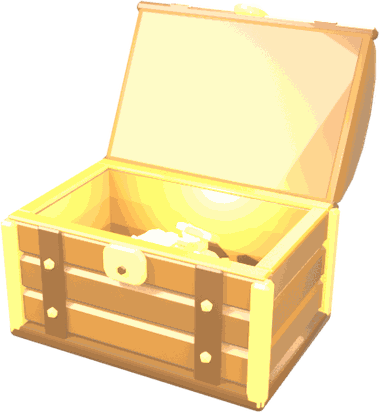
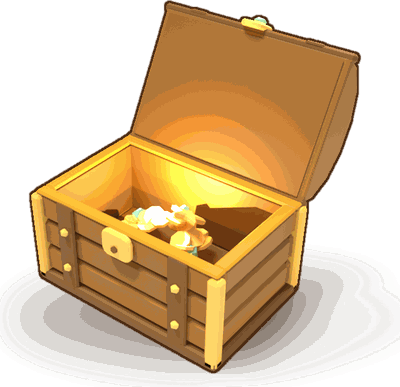
Result screen SPEC v2.2: solid 3/4 chest, text cut to 过关啦 / score / 下一关 / 回小岛
Chest (ResultChest3D):
- Camera 3/4 top-down: pitch 36°, from the front-right (azimuth 38°), fov 36, distance 5.6. Look-at y 0.68 for both
  states instead of the SPEC's 0.42 / 0.55: at 0.55 the lid's bounding box leaves the frame mid-sweep (−93°).
- Per-chest material: albedoScale (1.10, 1.06, 1.00), roughness 0.6, specularIntensity 0.35.
- Lights: key near-overhead top-left #FFEDCC ×4 (a far sphere light, so the island's directional light is untouched),
  fill low front-right #CCE0FF ×0.4, new rim behind/above #FFD18C ×1.1, InnerGlow #FFCC6B ×1.4 r2.2 once open.
- Outline ≈ 1.5 pt #4A2810 by silhouette expansion: 8 offset, tinted copies of the render behind it (no inverted hull).
- 2D contact shadow under the 3D chest: #3C2614 α45% day / 30% night, offset right/back, feathered.
- 2D fallback = chest/chest_v3_0 / chest_v3_12, scaled to 400 wide, 256-colour PNG (outline + shadow baked in).
- Chest shown 8 right of centre (SPEC); frame calibration CHEST_FRAME 0.60 / 0.028, LID_REACH 0.47.
Text (SPEC v2.2 list): no step line, no 点宝箱领取, no reward names, no unlock hint (成绩已保存 was already gone;
a failed save still shows 重试保存). Rewards are icons only; CountBadge (Ø24 #E88034, 14pt white) for count > 1
(ResultReward.count; the hosts don't pass counts yet).
Tests: style/safe_area expect only the four texts; CountBadge check; chest_3d checks camera, framing over the whole
lid sweep, lights, material and outline.

diff --git a/creator-build-project/assets/scripts/ui/BoardPanels.ts b/creator-build-project/assets/scripts/ui/BoardPanels.ts
@@ -44,7 +44,7 @@ export function openRestartConfirm(stack: PopupStack, restart: () => void): Popu
   return p;
 }
 export type ResultKind = 'win' | 'lose' | 'unsaved' | 'readonly';
-export interface ResultReward { id: string; label: string; icon: string; iconKind?: 'chest' | 'seal' | 'tool'; tool?: string; state: 'ready' | 'claimed' | 'locked'; claim?: () => void }
+export interface ResultReward { id: string; label: string; icon: string; iconKind?: 'chest' | 'seal' | 'tool'; tool?: string; state: 'ready' | 'claimed' | 'locked'; claim?: () => void; count?: number }
 export interface ResultModel {
   kind: ResultKind; score: number; stars: number | null; movesUsed: number | null; movesLeft: number | null;
   goalsLeft: Array<{ art: string; count: number }>; chestHint: boolean; rewards: ResultReward[];
@@ -81,9 +81,7 @@ export function openResult(stack: PopupStack, m: ResultModel, legacy: ToolArtSou
     ? p.text('步数用完了，换个顺序试试？', 0, 336, 28, 'brown', { bold: false, name: 'ResultMessage' })
     : p.text(m.score + ' 分', 0, 336, 64, 'brown', { name: 'Score' }));
   if (m.kind === 'win') {
-    section('ResultDetails', 0, 416, () => {
-      p.text(resultSummary(m), 0, 416, 14, 'brown2', { bold: false, width: 560, name: 'ResultSummary' });
-    });
+    // SPEC v2.2 text list: a win page keeps only 过关啦 / the score / 下一关 / 回小岛 (no step line, hint, names or unlock line).
     let y = 600;
     if (m.rewards.length) {
       const n = m.rewards.length, step = n === 1 ? 0 : n === 2 ? (wideReward ? 280 : 220) : 200;
@@ -298,13 +296,16 @@ function configureResultLayout(p: PopupPanel, _originalHeight: number, m: Result
   const isChest = (r: ResultReward) => r.iconKind === 'chest' || r.id === 'chest';
   // Chest hero: 240 × 216 when the page has room, never under 96 × 86 (the 3D render keeps its aspect).
   // Spec v2: chest 168 × 130 (compact 120 × 93), halo / hit area 220 (compact 160), rays 280 only once open.
-  const CHEST_FRAME = { width: 0.6, offsetY: 0.155 }, LID_REACH = 0.53;
+  // ResultChest3D v2.2 camera (36° pitch, 38° azimuth, fov 36, look-at y 0.68): the closed chest spans 60% of the square frame,
+  // its centre 2.8% of the frame below the frame centre; the open lid (−118°) reaches 47% of the frame above the chest centre.
+  const CHEST_FRAME = { width: 0.60, offsetY: 0.028 }, LID_REACH = 0.47;
   // SPEC v2.1: chest shown 180 wide closed / 176 open (compact 120), hit area 220 (compact 160), glow r120 closed / r150 open
   // (compact r80), rays 300 centred 48 above the chest, only once open. 2D fallback art aspect: closed 380×329, open 380×412.
-  const CHEST_W = 180, CHEST_H = 156, CHEST_W_C = 120, CHEST_H_C = 104, HALO = 220, HALO_C = 160, RAY = 300, CHEST_MIN_H = 72;
-  const CHEST_OPEN_W = 176 / 180, FLAT_OPEN_ASPECT = 412 / 380, GLOW_R = 74, GLOW_R_OPEN = 78, GLOW_R_C = 50, RAY_LIFT = 48;
+  const CHEST_W = 180, CHEST_H = 147, CHEST_W_C = 120, CHEST_H_C = 98, HALO = 220, HALO_C = 160, RAY = 300, CHEST_MIN_H = 72;
+  const CHEST_OPEN_W = 176 / 180, FLAT_OPEN_ASPECT = 387 / 400, /* chest_v3 fallback art (400 × 327 closed / 400 × 387 open, outline + contact shadow baked in) */ GLOW_R = 74, GLOW_R_OPEN = 78, GLOW_R_C = 50, RAY_LIFT = 48;
   // Glow hugs the chest (radius ≤ 0.45 × chest width): closed centre 4 below the chest centre, open 26 above; peak α 47% (night 59%) / open 59%.
-  const GLOW_DY = -4, GLOW_DY_OPEN = 26, GLOW_A = 0.47, GLOW_A_NIGHT = 0.59, GLOW_A_OPEN = 0.59, BADGE_GLOW_R = 40, BADGE_GLOW_A = 0.43;
+  // SPEC v2.2: the chest sits 8 right of centre so the shadow to its right/back doesn't pull it off-centre visually.
+  const CHEST_DX = 8, GLOW_DY = -4, GLOW_DY_OPEN = 26, GLOW_A = 0.47, GLOW_A_NIGHT = 0.59, GLOW_A_OPEN = 0.59, BADGE_GLOW_R = 40, BADGE_GLOW_A = 0.43;
   // Bottom actions match the home-screen wooden buttons: 56 high, plate art 0.6, a 5-unit drop shadow, equal widths.
   const ACTION_H = 56, ACTION_ART = 0.6, ACTION_SHADOW = 6, GUIDE_PERIOD = 1.6;
   // Rewards float above the open chest: icon + name, a gentle rise then bob. No card module under the chest.
@@ -338,13 +339,12 @@ function configureResultLayout(p: PopupPanel, _originalHeight: number, m: Result
     const lines = (text: string, size: number, line?: number) => { const lh = line || Math.ceil(size * 1.35); for (const _ of wrap(text, inner - 4, size)) heights.push(lh); };
     heights.push(shortPhone ? 44 : 88);
     if (m.kind === 'lose') lines(scoreText, 16); else lines(scoreText, 34, 46);
-    if (m.kind === 'win') { const summary = resultSummary(m); if (summary) lines(summary, 16); }
+    if (m.kind === 'win') { /* SPEC v2.2: no step line */ }
     else if (m.kind === 'lose') { for (const _ of goalIcons) heights.push(40); }
     else lines(m.kind === 'unsaved' ? '成绩还没存进旅程册' : '记录暂时不能写入，这局只看不存', 16);
     if (m.chestHint && m.kind !== 'win') lines(m.kind === 'lose' ? '过关后可以打开宝箱' : '存好后就能打开宝箱', 16);
     const side = sideRewards();
-    for (let i = 0; i < m.rewards.length; i++) { const r = m.rewards[i]; if (isChest(r)) { if (r.state === 'locked') lines(r.label, 16); heights.push(heroHeightFor(inner, r)); if (r.state === 'ready' && r.claim) heights.push(20); } }
-    if (m.kind === 'win' && m.unlockHint && !anyReady()) lines(m.unlockHint, 16);
+    for (let i = 0; i < m.rewards.length; i++) { const r = m.rewards[i]; if (isChest(r)) { heights.push(heroHeightFor(inner, r)); } }
     if (side.length && !hasChest()) heights.push(floatBand(shortPhone) + 24);
     return contentTop + reserve + heights.reduce((sum, h) => sum + h, 0) + Math.max(0, heights.length - 1) * rowGap;
   };
@@ -450,7 +450,7 @@ function configureResultLayout(p: PopupPanel, _originalHeight: number, m: Result
         }
       }
     }
-    if (m.kind === 'win') { const summary = resultSummary(m); if (summary) labelRows('ResultSummary', summary, 16, 'brown2'); }
+    if (m.kind === 'win') { /* SPEC v2.2: no step line */ }
     else if (m.kind === 'lose') {
       const goals = groups.ResultGoals;
       if (goals) {
@@ -520,11 +520,18 @@ function configureResultLayout(p: PopupPanel, _originalHeight: number, m: Result
         }
         let l = holder.getChildByName('ResultRewardState-' + i)?.getComponent(Label);
         if (!l) l = p.text('', 0, 0, 16, r.state === 'locked' ? 'grey' : 'brown', { name: 'ResultRewardState-' + i, parent: holder });
-        const fits = textWidth(r.label, 16) <= colW - 4;
-        l.string = fits ? r.label : (r.state === 'locked' ? '未解锁' : '道具'); l.fontSize = 16; l.lineHeight = FLOAT_NAME;
+        l.string = ''; l.node.active = false; l.fontSize = 16; l.lineHeight = FLOAT_NAME; // SPEC v2.2: icons only, no names
         l.enableWrapText = false; l.overflow = Label.Overflow.CLAMP;
         l.node.getComponent(UITransform)!.setContentSize(colW - 4, FLOAT_NAME); l.node.setPosition(0, -hh / 2 + FLOAT_NAME / 2, 0);
-        if (!fits) labelRows('ResultRewardLabel-' + i, r.label, 16, 'brown2');
+        // CountBadge (count > 1 only): Ø24 at the badge centre +(24, 26 up); #E88034 face, 2pt #B05C1E base, 2pt #FFF8E4 ring, 14pt bold white.
+        let cb = holder.getChildByName('ResultCountBadge-' + i);
+        if ((r.count || 0) > 1) {
+          const k3 = icon / 68;
+          if (!cb) { cb = uiNode('ResultCountBadge-' + i, holder, 24, 24); const g = cb.addComponent(Graphics);
+            g.fillColor = new Color(0xFF, 0xF8, 0xE4, 255); g.circle(0, -1, 13); g.fill(); g.fillColor = new Color(0xB0, 0x5C, 0x1E, 255); g.circle(0, -2, 10); g.fill(); g.fillColor = new Color(0xE8, 0x80, 0x34, 255); g.circle(0, 0, 10); g.fill();
+            const t = p.text(String(r.count), 0, 0, 14, 'white', { name: 'ResultCount', width: 24, parent: cb }); t.lineHeight = 16; t.node.setPosition(0, 0, 0); }
+          delete (cb as any).__floatBase; cb.setScale(k3, k3, 1); cb.setPosition(24 * k3, iconY + 26 * k3, 0); cb.active = true; cb.setSiblingIndex(holder.children.length - 1);
+        } else if (cb) cb.active = false;
         holder.setSiblingIndex(row.node.children.length - 1); floatNodes.push({ node: holder, x, y: baseY, phase: k * 0.09, fromY: mouthY }); floatDiag.push({ name: r.label, x, y: baseY, icon });
       });
     };
@@ -534,12 +541,12 @@ function configureResultLayout(p: PopupPanel, _originalHeight: number, m: Result
       if (!isChest(r)) continue;
       let band = floatBand(dense || specCompact), split = false;
       const usedAbove = rows.reduce((sum, row) => sum + row.height + rowGap, 0);
-      const labelled = r.state === 'locked';
+      const labelled = false; // SPEC v2.2: no reward names
       const cwS = specCompact ? CHEST_W_C : CHEST_W, haloS = specCompact ? HALO_C : HALO;
       // Closed: rewards would hover over the halo's top edge. Open: they must clear the raised lid, which reaches 53% of the
       // square chest frame above the chest centre (result_chest.glb at −118°), so the band starts above it.
       let lap = !band ? 0 : r.state === 'claimed' && !specCompact ? -Math.max(0, Math.round(LID_REACH * cwS / CHEST_FRAME.width - haloS / 2)) : Math.round(band * 0.4);
-      const after = (r.state === 'ready' && anyReady() ? 20 + rowGap : 0) + (m.unlockHint && !anyReady() ? Math.ceil(16 * 1.35) + rowGap : 0);
+      const after = 0;
       const room = available - usedAbove - (labelled ? 22 + rowGap : 0) - (band - lap) - after;
       const cw0 = specCompact ? CHEST_W_C : CHEST_W, ch0 = specCompact ? CHEST_H_C : CHEST_H, halo = specCompact ? HALO_C : HALO;
       let chestH = Math.max(Math.min(CHEST_MIN_H, ch0), Math.min(ch0, room * ch0 / halo, inner * ch0 / cw0)), chestW = chestH * cw0 / ch0;
@@ -564,10 +571,13 @@ function configureResultLayout(p: PopupPanel, _originalHeight: number, m: Result
       }
       const sk = chestW / (specCompact ? CHEST_W_C : CHEST_W), glowD = 2 * Math.min(0.45 * chestW, (specCompact ? GLOW_R_C : opened ? GLOW_R_OPEN : GLOW_R) * sk);
       haloNode.getComponent(UITransform)!.setContentSize(glowD, glowD); add(row, haloNode, 0, chestY + (opened ? GLOW_DY_OPEN : GLOW_DY) * sk); (haloNode as any).__draw(opened, isNight());
-      // FloorShadow 140 × 20 #5A3A1E α25% under the chest.
+      // Contact shadow (SPEC v2.2, 3D only; the 2D fallback art has it baked in): soft ellipse #3C2614 α45% day / 30% night,
+      // 220 × 60 for a 220-wide chest, offset to the right/back (light from the top-left), feathered edge.
       let floor = row.node.getChildByName('ResultChestFloor');
-      if (!floor) { floor = uiNode('ResultChestFloor', row.node, 140, 20); const g = floor.addComponent(Graphics); g.fillColor = new Color(0x50, 0x32, 0x1A, 89); g.ellipse(0, 0, 70, 10); g.fill(); }
-      floor.setScale(chestW / CHEST_W, chestW / CHEST_W, 1); add(row, floor, 0, chestY - chestH / 2 + 4);
+      if (!floor) { floor = uiNode('ResultChestFloor', row.node, 220, 60); const fl = floor; fl.addComponent(Graphics); (fl as any).__draw = (night: boolean) => {
+        const g = fl.getComponent(Graphics)!, n = 10, a0 = night ? 0.30 : 0.45, st = 1 - Math.pow(1 - a0, 1 / n); g.clear();
+        for (let k = 0; k < n; k++) { const f = 1 - k / n * 0.6; g.fillColor = new Color(0x3C, 0x26, 0x14, Math.round(255 * st)); g.ellipse(0, 0, 110 * f, 30 * f); g.fill(); } }; }
+      (floor as any).__draw(isNight()); floor.setScale(chestW / 220, chestW / 220, 1); add(row, floor, chestW * 0.06, chestY - chestH / 2 + chestW * 0.06); floor.active = !!chestRig?.ready;
       if (!raysNode || !isValid(raysNode, true)) { raysNode = p.sprite('popup/fx_rays', 0, 0, raySize, raySize, 'half').node; raysNode.name = 'ResultChestRays'; }
       else raysNode.getComponent(UITransform)!.setContentSize(raySize, raySize);
       const rs = Math.min(RAY * sk, inner, rowH); raysNode.getComponent(UITransform)!.setContentSize(rs, rs); add(row, raysNode, 0, Math.max(-rowH / 2 + rs / 2, Math.min(chestY + RAY_LIFT * sk, rowH / 2 - rs / 2))); raysNode.active = opened; // rays only once open
@@ -575,8 +585,8 @@ function configureResultLayout(p: PopupPanel, _originalHeight: number, m: Result
         flat.name = 'ResultChestArt';
         // 2D fallback: popup/chest_open once claimed (bottom-aligned with the closed art), popup/chest_closed before.
         const openFrame = opened ? BoardArt.shared().frame('popup/chest_open') : null, sp = flat.getComponent(Sprite);
-        if (openFrame && sp) { sp.spriteFrame = openFrame; const ow = chestW * CHEST_OPEN_W, oh = ow * FLAT_OPEN_ASPECT; fitBox(flat, ow, oh); add(row, flat, 0, chestY - chestH / 2 + oh / 2); }
-        else { fitBox(flat, chestW, chestH); add(row, flat, 0, chestY); }
+        if (openFrame && sp) { sp.spriteFrame = openFrame; const ow = chestW * CHEST_OPEN_W, oh = ow * FLAT_OPEN_ASPECT; fitBox(flat, ow, oh); add(row, flat, CHEST_DX * sk, chestY - chestH / 2 + oh / 2); }
+        else { fitBox(flat, chestW, chestH); add(row, flat, CHEST_DX * sk, chestY); }
         if (chestRig?.ready) flat.active = false;
       }
       for (let j = 0; j < art.length; j++) { const n = art[j]; if (n !== flat) n.active = false; } // no stamp: the open lid says it
@@ -585,12 +595,12 @@ function configureResultLayout(p: PopupPanel, _originalHeight: number, m: Result
         // Claimed: the chest stays open (lid at the end of chest_open) instead of returning to the closed pose.
         if (r.state === 'claimed') chestRig.open(Date.now() - chestTappedAt < 3000); // just tapped: play the lid open; otherwise already open
         const shown = flat;
-        void chestRig.load().then(ok => { if (!ok || !chestRig || !isValid(chestRig.node, true)) return; chestRig.node.active = true; if (shown && isValid(shown, true)) shown.active = false; });
+        const fl0 = floor; void chestRig.load().then(ok => { if (!ok || !chestRig || !isValid(chestRig.node, true)) return; chestRig.node.active = true; if (shown && isValid(shown, true)) shown.active = false; if (fl0 && isValid(fl0, true)) fl0.active = true; });
       } else if (chestRig.node.parent !== row.node) row.node.addChild(chestRig.node);
       // The 512² RenderTexture is square: show it square (no squash) so the closed chest body spans chestW
       // (it fills 60% of the frame width and sits 15.5% below the frame centre, measured on result_chest.glb).
       const frameSide = chestW / CHEST_FRAME.width, frameY = chestY + CHEST_FRAME.offsetY * frameSide;
-      chestRig.node.setPosition(0, frameY, 0); chestRig.node.getComponent(UITransform)!.setContentSize(frameSide, frameSide);
+      chestRig.node.setPosition(CHEST_DX * sk, frameY, 0); chestRig.node.getComponent(UITransform)!.setContentSize(frameSide, frameSide);
       chestPose = { node: chestRig.node, flat: flat || null, y: chestY, rigY: frameY, w: chestW, h: chestH }; if (flat) flatScale = { x: flat.scale.x, y: flat.scale.y };
       guideDiag.pulsing = r.state === 'ready' && anyReady(); guideDiag.chest = { w: chestW, h: chestH, halo: body, hit: Math.max(44, body) };
       // Items hover just above the open lid (lower edge overlaps the chest top by a quarter of the band).
@@ -598,18 +608,12 @@ function configureResultLayout(p: PopupPanel, _originalHeight: number, m: Result
       placeTap(row, chestY, Math.min(inner, Math.max(44, body)), Math.max(44, Math.min(rowH, body)));
       rows.push(row);
       if (split) { const fh = Math.max(1, Math.min(floatBand(true), available)); const fr = getRow('reward-floating', fh); placeFloating(fr, 0, 0, fh); rows.push(fr); }
-      if (r.state === 'ready' && anyReady()) {
-        const hr = getRow('chest-hint', 20); let hl = hr.node.getComponentInChildren(Label);
-        if (!hl) hl = p.text('✦ 点宝箱领取 ✦', 0, 0, 16, 'brown2', { name: 'ResultChestHint', width: inner, parent: hr.node });
-        hl.node.setPosition(0, 0, 0); hl.fontSize = 16; hl.lineHeight = 20; hl.enableWrapText = false; hl.overflow = Label.Overflow.CLAMP; hl.node.getComponent(UITransform)!.setContentSize(inner, 20);
-        hl.color = new Color(0xB0, 0x7A, 0x2A, 255); hintLabel = hl; rows.push(hr);
-      }
+      // SPEC v2.2: no 点宝箱领取 line; breathing + hop + the glow are the guide.
     }
     if (!hasChest() && sideRewards().length) {
       const fh = Math.max(1, Math.min(floatBand(dense || tight) + 24, available)); const row = getRow('reward-floating', fh); placeFloating(row, 0, -20, fh);
       placeTap(row, 0, inner, row.height); rows.push(row);
     }
-    if (m.kind === 'win' && m.unlockHint && !anyReady()) { labelRows('ResultUnlockHint', m.unlockHint, 16, 'teal'); }
     pages = [[]]; let used = 0;
     for (let i = 0; i < rows.length; i++) {
       const row = rows[i]; let needed = row.height;

diff --git a/creator-build-project/assets/scripts/ResultChest3D.ts b/creator-build-project/assets/scripts/ResultChest3D.ts
@@ -4,7 +4,7 @@ import { ISLAND_PROPS } from './world-r2/IslandPropsLayout';
 /** Reward chest (c-popups/glb/result_chest.glb, bundle board_art/chest): rendered off-screen into a RenderTexture shown by
  *  a UI Sprite. The GLB carries M_env_palette_piece without textures, so every renderer is rebound to the island's shared
  *  M_env_palette material (same palette UVs). The lid (child `chest_lid`, origin on the hinge) follows the GLB's
- *  `chest_open` keys: 0.5 s, 0 → −126° → −114° → −118°, ending open so the inside is visible from the 40° camera. */
+ *  `chest_open` keys: 0.5 s, 0 → −126° → −114° → −118°, ending open so the inside is visible from the 36° camera. */
 export const CHEST_LAYER = 1 << 19;
 export const CHEST_PIXELS = 512;
 const ORIGIN = new Vec3(10000, 10000, 10000);
@@ -15,32 +15,39 @@ export function lidAngleAt(t: number): number {
   const x = Math.max(0, Math.min(OPEN_SECONDS, t)) * 30, i = Math.min(LID_KEYS.length - 2, Math.floor(x)), f = x - i;
   return LID_KEYS[i] + (LID_KEYS[i + 1] - LID_KEYS[i]) * f;
 }
-/** Camera pitched 40° down at the chest; framing covers the whole lid sweep (highest point ≈ y 2.0 at −93°). */
-export const CHEST_CAMERA = { pitchDeg: 40, fovDeg: 30, target: [0, 0.9, -0.35] as const, distance: 5.9 };
+/** SPEC v2.2: 3/4 top-down view, pitch 36°, from the front-right (azimuth 38°, so top, front and right side all show),
+ *  fov 36° (≈ 55 mm), distance 5.6. One look-at height for both states (no re-framing jump when the lid opens): 0.68, not
+ *  the SPEC's 0.42 / 0.55, because at 0.55 the lid's bounding box leaves the square frame top mid-sweep (−93°, 0.511 > 0.5).
+ *  The closed chest then spans 60% of the frame width, its centre 2.8% below the frame centre. */
+export const CHEST_CAMERA = { pitchDeg: 36, azimuthDeg: 38, fovDeg: 36, target: [0, 0.68, 0] as const, distance: 5.6 };
 export function chestCameraPosition(): number[] {
-  const p = CHEST_CAMERA.pitchDeg * Math.PI / 180, t = CHEST_CAMERA.target, d = CHEST_CAMERA.distance;
-  return [t[0], t[1] + d * Math.sin(p), t[2] + d * Math.cos(p)];
+  const p = CHEST_CAMERA.pitchDeg * Math.PI / 180, a = CHEST_CAMERA.azimuthDeg * Math.PI / 180, t = CHEST_CAMERA.target, d = CHEST_CAMERA.distance;
+  return [t[0] + d * Math.cos(p) * Math.sin(a), t[1] + d * Math.sin(p), t[2] + d * Math.cos(p) * Math.cos(a)];
 }
+/** Outline (SPEC v2.2): ≈ 1.5 pt #4A2810 by expanding the silhouette (8 offset copies of the render behind it), not an inverted hull. */
+export const CHEST_OUTLINE = { enabled: true, width: 1.5, color: [0x4a, 0x28, 0x10] };
 function find(n: Node, name: string): Node | null {
   if (n.name === name) return n; for (let i = 0; i < n.children.length; i++) { const r = find(n.children[i], name); if (r) return r; } return null;
 }
-/** UI设计部 SPEC v2.1 chest look (pending Funning's confirmation, so every number lives here and is easy to tweak):
- *  same model + island M_env_palette, a per-chest material instance brightened with albedoScale and roughness 0.55,
- *  KeyLight 3.2, FillLight unchanged, a new RimLight behind/above, InnerGlow only once the lid opens. */
+/** UI设计部 SPEC v2.2 chest look (every number lives here, easy to tweak). Blender (x, y, z-up) → Cocos (x, z, −y).
+ *  Per-chest material instance: albedoScale (1.10, 1.06, 1.00), roughness 0.6, specular 0.35 (less plastic).
+ *  Key: near-overhead from the top-left, #FFEDCC ×4 (a far sphere light standing in for the SPEC's directional light,
+ *  so the island's main light is untouched); fill low front-right #CCE0FF ×0.4 so the sides fall one step darker;
+ *  rim behind/above #FFD18C ×1.1 to pick out the lid's top edge; InnerGlow #FFCC6B ×1.4 r2.2 only once open. */
 export const CHEST_LOOK = {
-  material: { albedoScale: [1.12, 1.08, 1.0], roughness: 0.55 } as { albedoScale: number[]; roughness: number; mainColor?: number[]; emissive?: number[] } | null,
+  material: { albedoScale: [1.10, 1.06, 1.0], roughness: 0.6, specularIntensity: 0.35 } as { albedoScale: number[]; roughness: number; specularIntensity?: number; mainColor?: number[]; emissive?: number[] } | null,
   lights: {
-    key: { pos: [-1.6, 3.2, 2.6], color: '#fff1d8', lum: 3.2, range: 9 },
-    fill: { pos: [2.2, 1.6, 2.2], color: '#dbe9ff', lum: 1, range: 8 },
-    rim: { pos: [0, 1.8, -2.5], color: '#ffd9a0', lum: 1.2, range: 8 },
-    inner: { pos: [0, 0.95, 0], color: '#ffd890', lum: 1.4, range: 2.2 },
+    key: { pos: [-1.6, 6, 1.4], color: '#ffedcc', lum: 4, range: 14 },
+    fill: { pos: [4, 1.5, 3], color: '#cce0ff', lum: 0.4, range: 10 },
+    rim: { pos: [0.5, 3.5, -3.5], color: '#ffd18c', lum: 1.1, range: 9 },
+    inner: { pos: [0, 0.95, 0], color: '#ffcc6b', lum: 1.4, range: 2.2 },
   },
 };
 function warm(r: MeshRenderer, k: number) {
   const t = CHEST_LOOK.material; if (!t) return;
   try { const m = r.getMaterialInstance(k); if (!m) return;
     const set = (name: string, v: any) => { try { m.setProperty(name, v); } catch { } };
-    set('albedoScale', new Vec3(t.albedoScale[0], t.albedoScale[1], t.albedoScale[2])); set('roughness', t.roughness);
+    set('albedoScale', new Vec3(t.albedoScale[0], t.albedoScale[1], t.albedoScale[2])); set('roughness', t.roughness); if (t.specularIntensity !== undefined) set('specularIntensity', t.specularIntensity);
     if (t.mainColor) set('mainColor', new Color(t.mainColor[0], t.mainColor[1], t.mainColor[2], 255));
     if (t.emissive) set('emissive', new Color(t.emissive[0], t.emissive[1], t.emissive[2], 255));
   } catch { }
@@ -52,12 +59,22 @@ export class ResultChest3D {
   private texture: RenderTexture | null = null; private frame: SpriteFrame | null = null;
   private t = 0; private playing = false; private disposed = false; private state = 'loading'; private error = '';
   private rest = new Quat(); private q = new Quat(); private inner: Node | null = null;
+  private outline: Sprite[] = []; private root: Node;
   constructor(host: Node, size: number) {
-    const n = new Node('ResultChest3D'); n.layer = Layers.Enum.UI_2D; host.addChild(n);
+    const n = new Node('ResultChest3D'); n.layer = Layers.Enum.UI_2D; host.addChild(n); this.root = n;
     n.addComponent(UITransform).setContentSize(size, size);
-    this.sprite = n.addComponent(Sprite); this.sprite.sizeMode = Sprite.SizeMode.CUSTOM; this.sprite.trim = false;
+    const make = (name: string) => { const c = new Node(name); c.layer = Layers.Enum.UI_2D; n.addChild(c); c.addComponent(UITransform).setContentSize(size, size); const sp = c.addComponent(Sprite); sp.sizeMode = Sprite.SizeMode.CUSTOM; sp.trim = false; return sp; };
+    if (CHEST_OUTLINE.enabled) for (let k = 0; k < 8; k++) { const sp = make('ChestOutline-' + k); const c = CHEST_OUTLINE.color; sp.color = new Color(c[0], c[1], c[2], 255); this.outline.push(sp); }
+    this.sprite = make('ChestImage');
   }
-  get node() { return this.sprite.node; }
+  /** Container node: BoardPanels positions and sizes it; the render and its outline copies follow (see sync()). */
+  get node() { return this.root; }
+  private sync() {
+    const ui = this.root.getComponent(UITransform); if (!ui) return; const w = ui.width, h = ui.height, o = CHEST_OUTLINE.width;
+    const all = [...this.outline, this.sprite];
+    for (let i = 0; i < all.length; i++) { const sp = all[i]; if (!isValid(sp, true)) continue; const t = sp.node.getComponent(UITransform)!; if (t.width !== w || t.height !== h) t.setContentSize(w, h); }
+    for (let k = 0; k < this.outline.length; k++) { const a = k * Math.PI / 4; if (isValid(this.outline[k], true)) this.outline[k].node.setPosition(Math.round(Math.cos(a) * o * 100) / 100, Math.round(Math.sin(a) * o * 100) / 100, 0); }
+  }
   get ready() { return this.state === 'ready'; }
   async load(): Promise<boolean> {
     try {
@@ -84,23 +101,23 @@ export class ResultChest3D {
       const rt = new RenderTexture(); rt.reset({ width: CHEST_PIXELS, height: CHEST_PIXELS }); cam.targetTexture = rt; this.texture = rt; this.camera = cam;
       const f = new SpriteFrame(); f.texture = rt; f.packable = false; this.frame = f;
       if (!isValid(this.sprite, true)) throw Error('host destroyed');
-      this.sprite.spriteFrame = f; this.apply(); this.state = 'ready'; return true;
+      this.sprite.spriteFrame = f; for (let k = 0; k < this.outline.length; k++) this.outline[k].spriteFrame = f; this.sync(); this.apply(); this.state = 'ready'; return true;
     } catch (e) { this.state = 'failed'; this.error = String(e); console.warn('[RESULT_CHEST] 3D chest unavailable', this.error); this.disposeRig(); return false; }
   }
   /** Start the 0.5 s open animation (or jump to the end). */
   open(animate = true) { this.t = animate ? 0 : OPEN_SECONDS; this.playing = animate; this.apply(); }
   close() { this.t = 0; this.playing = false; this.apply(); }
-  update(dt: number) { if (!this.playing) return; this.t = Math.min(OPEN_SECONDS, this.t + Math.max(0, Math.min(dt, 0.1))); if (this.t >= OPEN_SECONDS) this.playing = false; this.apply(); }
+  update(dt: number) { if (this.state === 'ready') this.sync(); if (!this.playing) return; this.t = Math.min(OPEN_SECONDS, this.t + Math.max(0, Math.min(dt, 0.1))); if (this.t >= OPEN_SECONDS) this.playing = false; this.apply(); }
   angle() { return lidAngleAt(this.t); }
   private apply() { if (this.inner && isValid(this.inner, true)) this.inner.active = this.t > 0; if (!this.lid || !isValid(this.lid, true)) return; Quat.fromEuler(this.q, lidAngleAt(this.t), 0, 0); Quat.multiply(this.q, this.rest, this.q); this.lid.setRotation(this.q); }
-  diagnostics() { return { state: this.state, error: this.error, t: this.t, angle: this.angle(), pixels: CHEST_PIXELS, layer: CHEST_LAYER }; }
+  diagnostics() { return { state: this.state, error: this.error, t: this.t, angle: this.angle(), pixels: CHEST_PIXELS, layer: CHEST_LAYER, camera: CHEST_CAMERA, outline: this.outline.length ? CHEST_OUTLINE.width : 0 }; }
   private disposeRig() {
     if (this.camera && isValid(this.camera, true)) { this.camera.targetTexture = null; this.camera.enabled = false; }
     if (this.rig && isValid(this.rig, true)) this.rig.destroy(); this.rig = null; this.lid = null; this.camera = null;
   }
   dispose() {
     if (this.disposed) return; this.disposed = true;
-    if (isValid(this.sprite, true)) this.sprite.spriteFrame = null;
+    if (isValid(this.sprite, true)) this.sprite.spriteFrame = null; for (let k = 0; k < this.outline.length; k++) if (isValid(this.outline[k], true)) this.outline[k].spriteFrame = null;
     this.disposeRig(); this.frame?.destroy(); this.frame = null; this.texture?.destroy(); this.texture = null;
   }
 }
